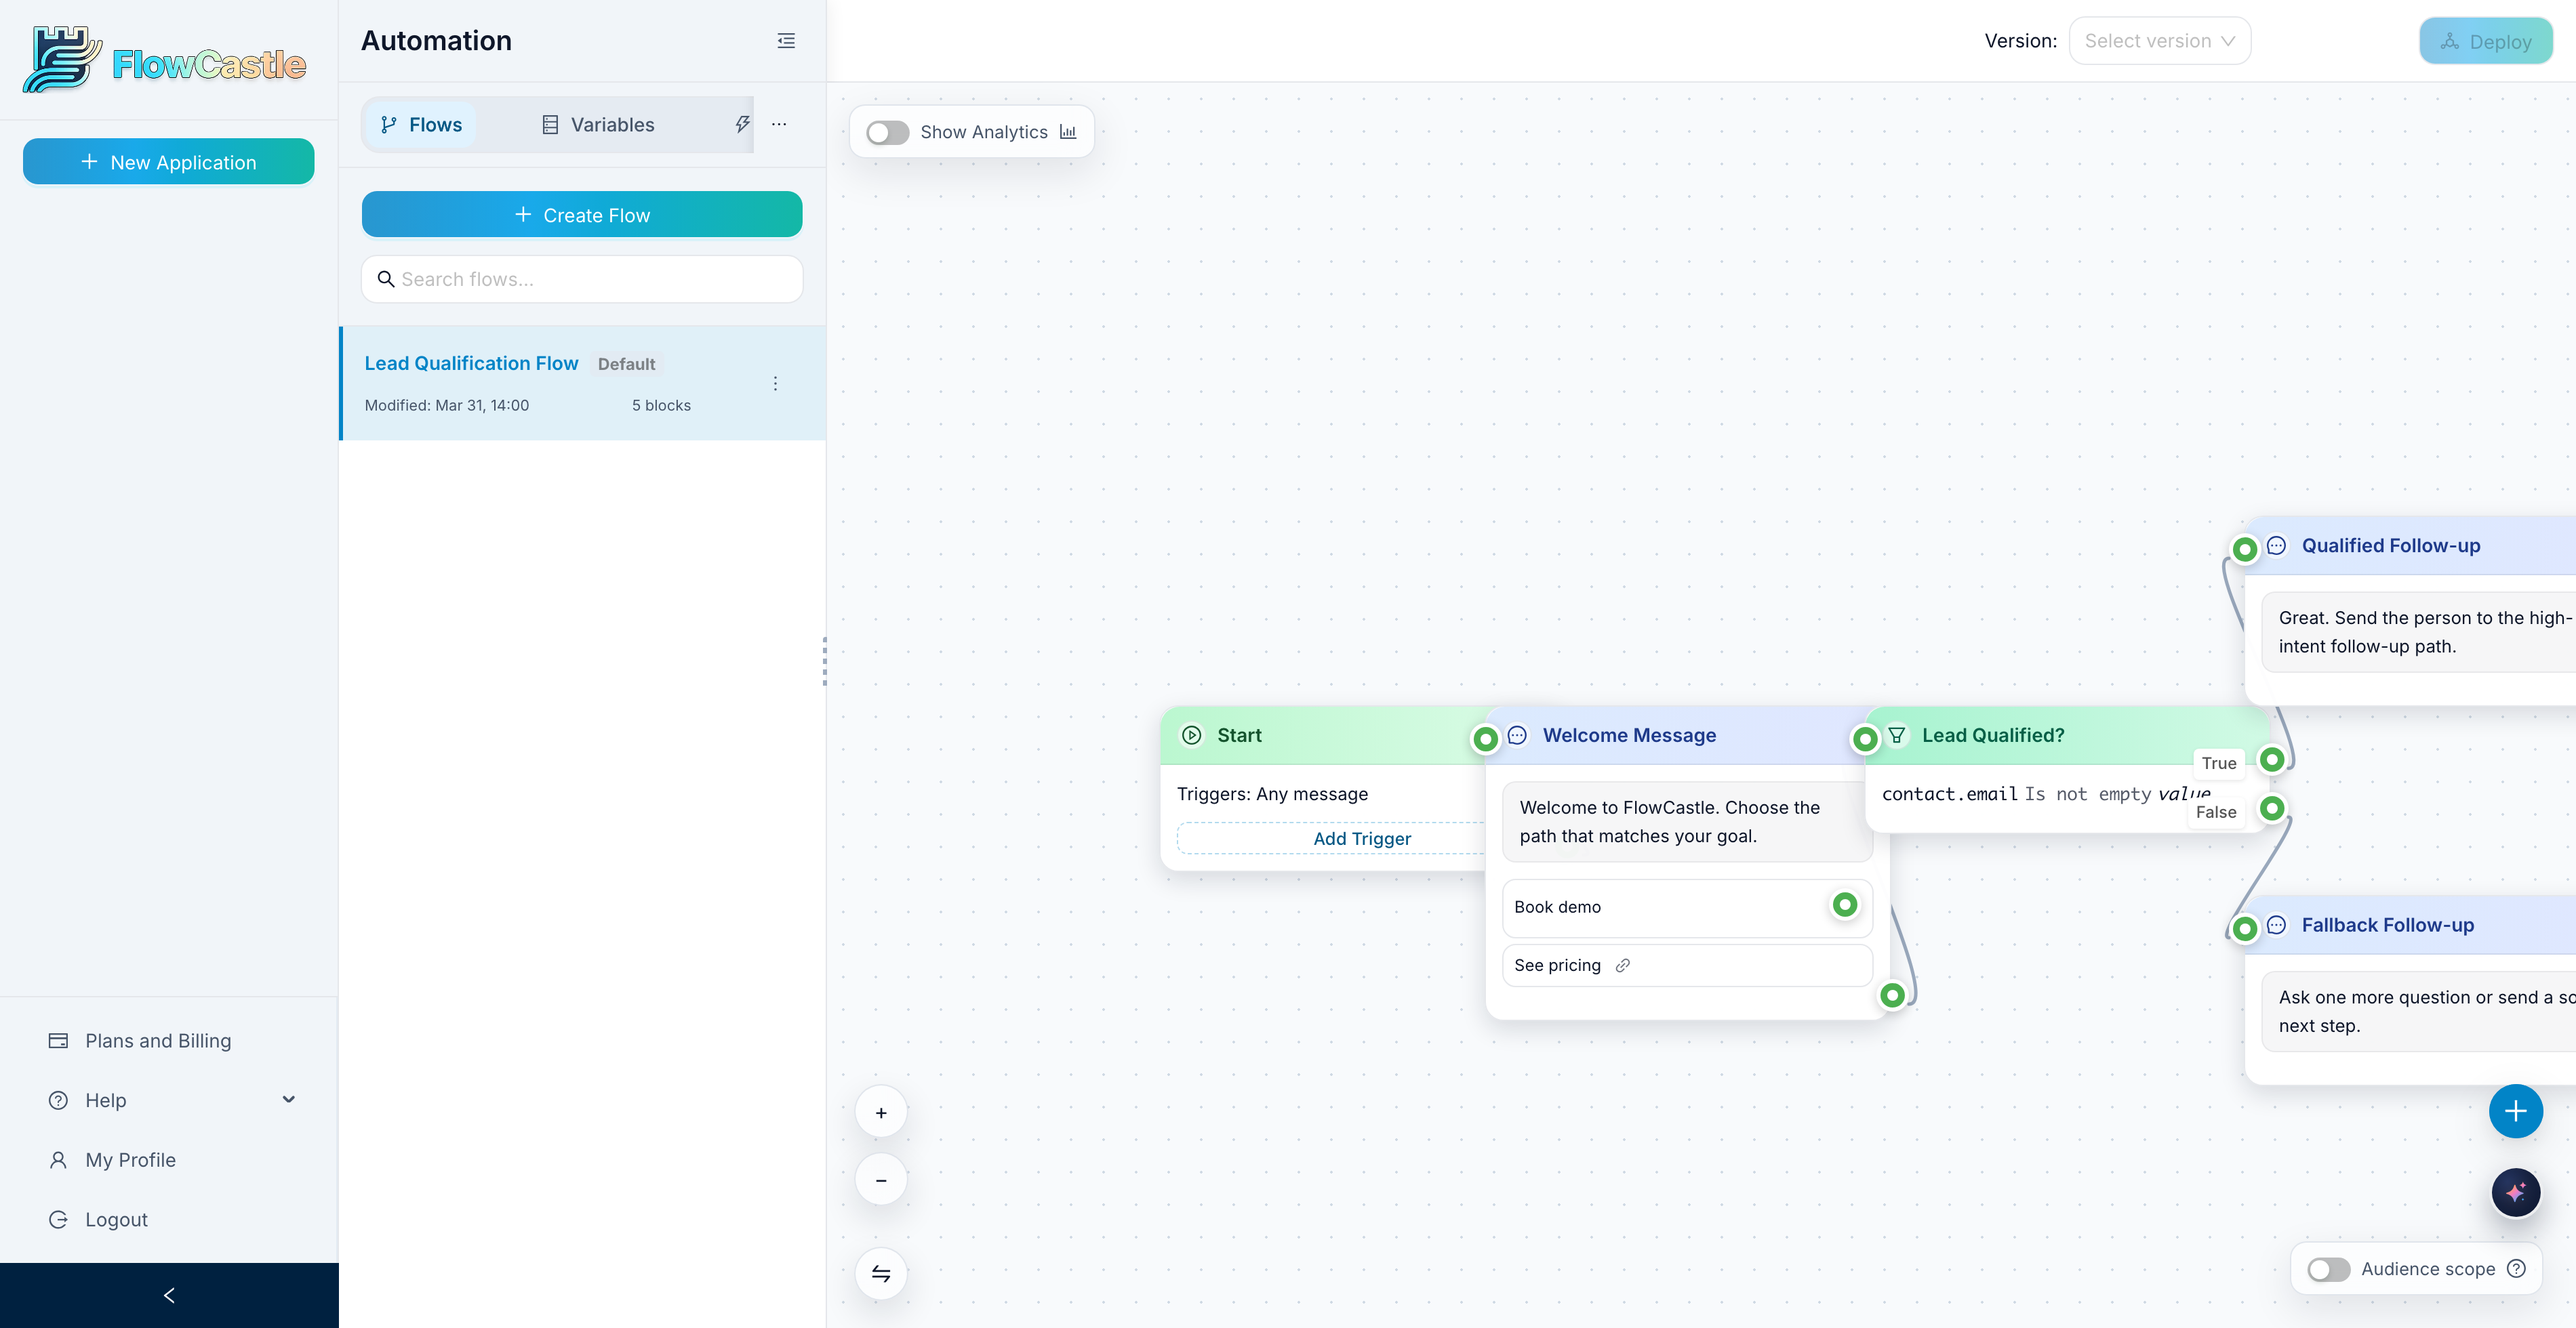
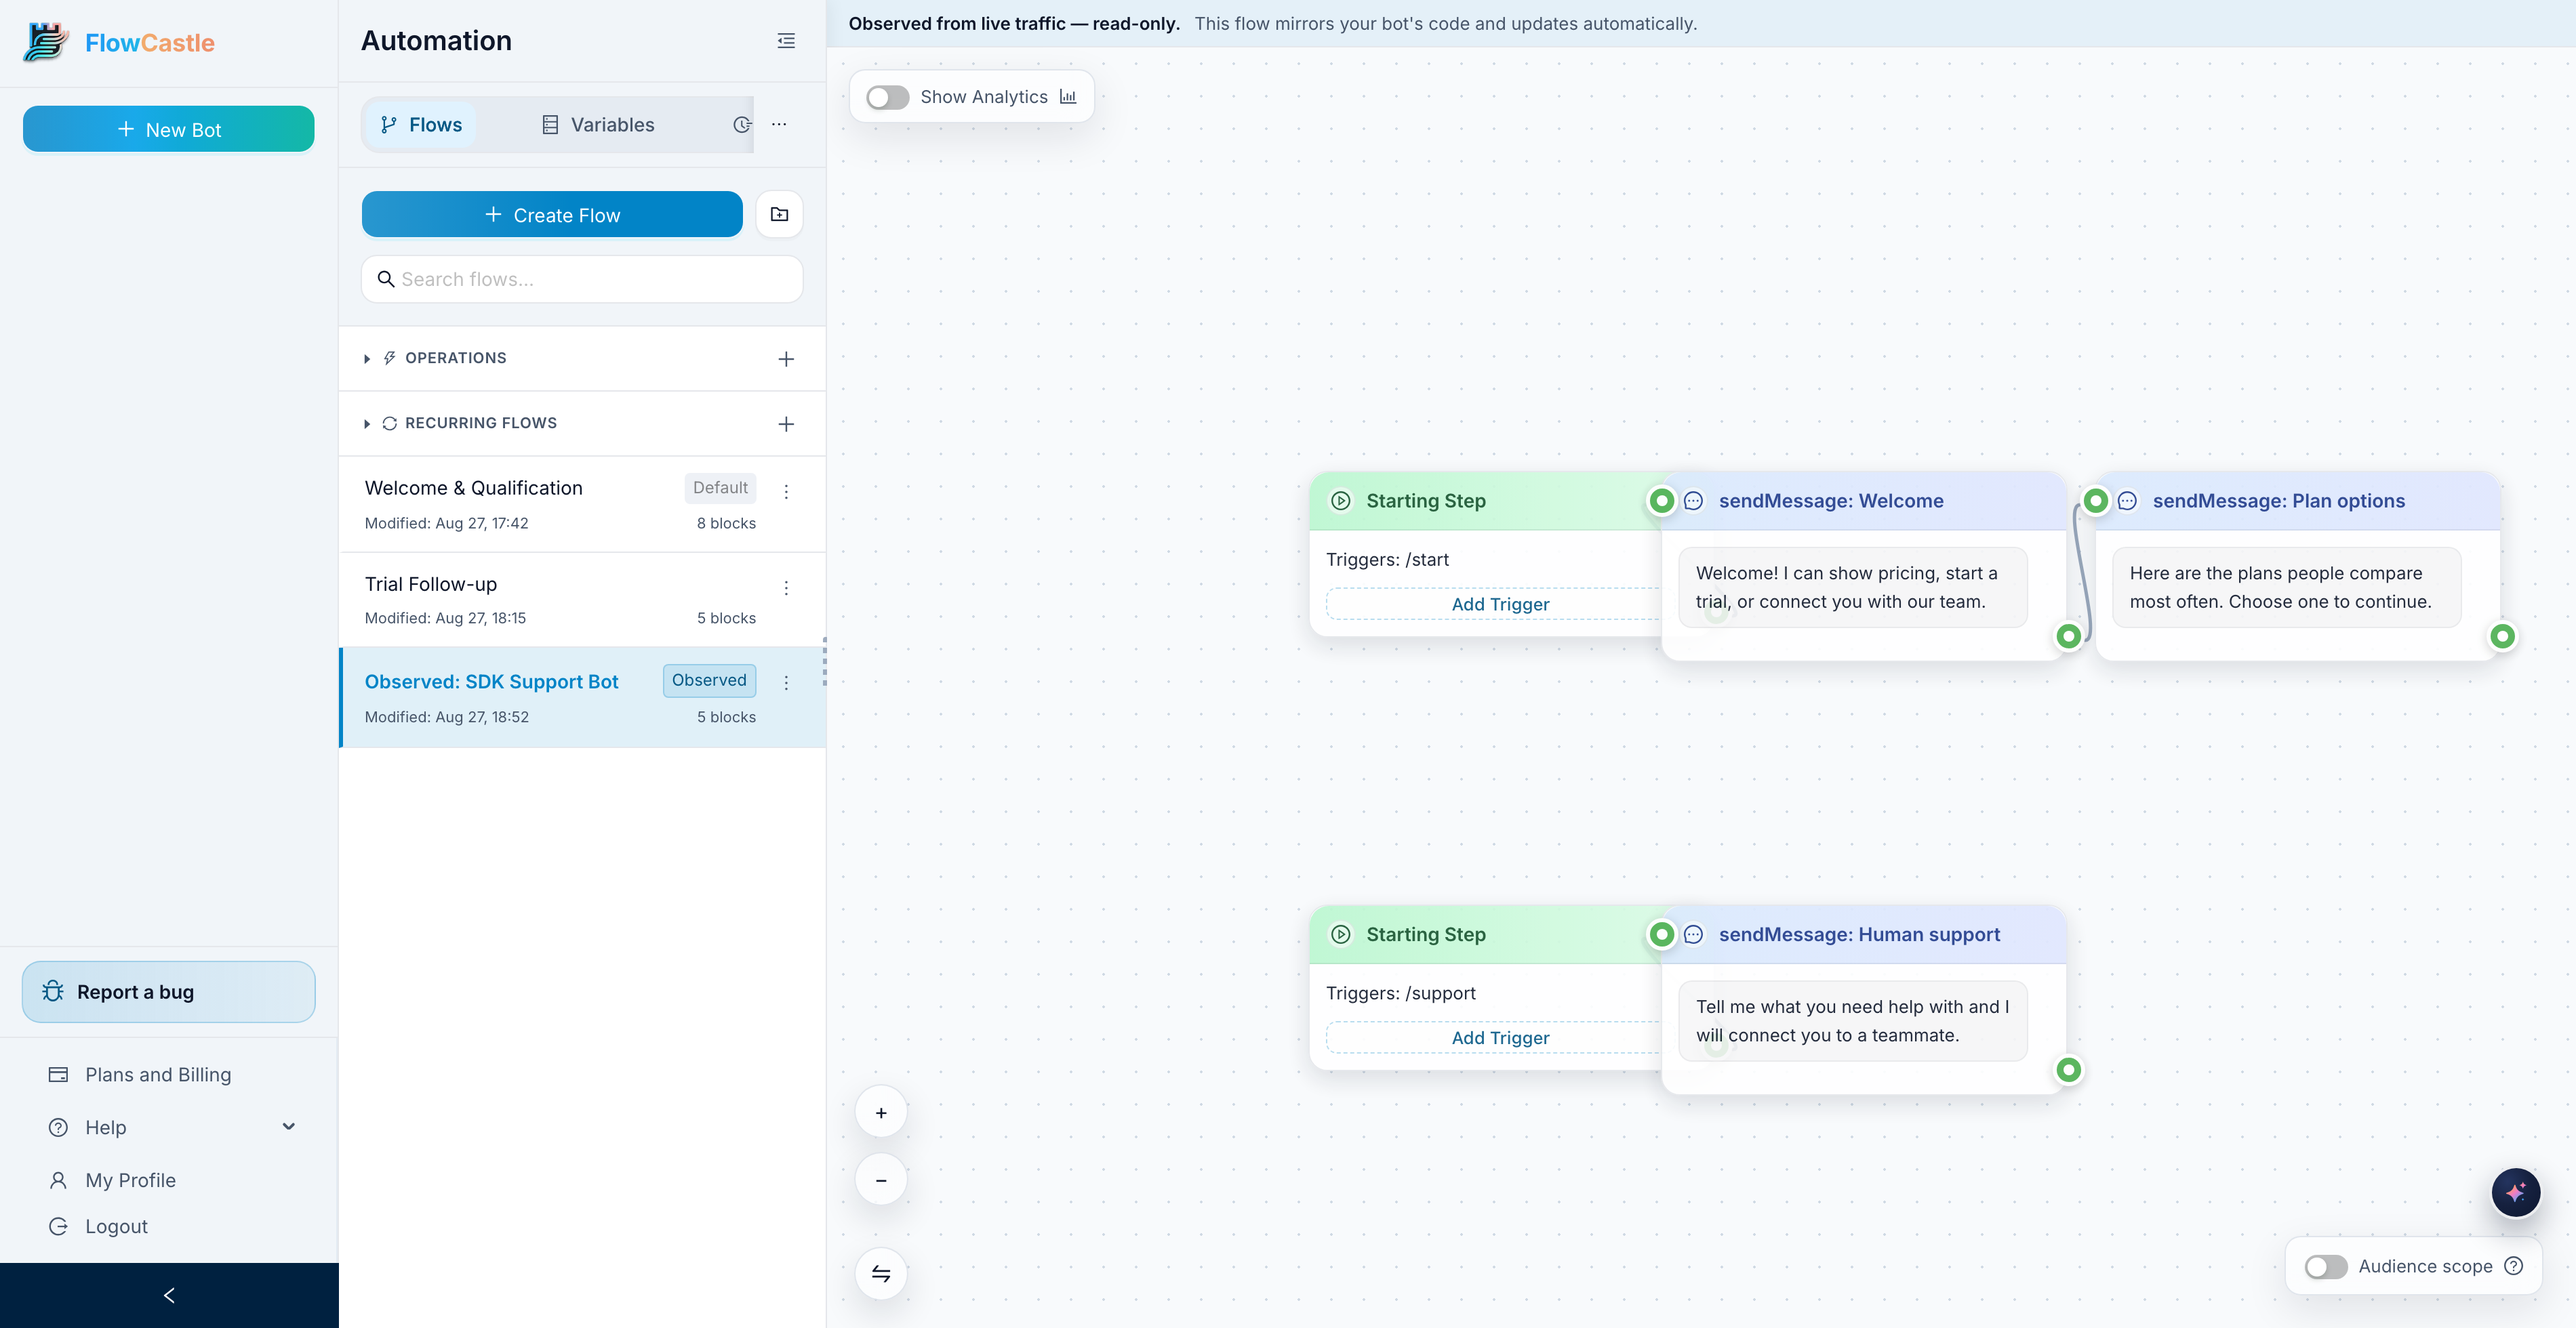
docs: explain code and no-code flows

diff --git a/README.md b/README.md
@@ -59,14 +59,27 @@ code, call a FlowCastle flow for onboarding, return to custom logic, record a
 goal, and later hand the conversation to a human—all through the bot process
 you already operate.
 
-![A lead qualification conversation displayed on the FlowCastle visual canvas](docs/images/flow-canvas.png)
+## Code and no-code, side by side
 
-The SDK observes incoming updates and outgoing Telegram calls. FlowCastle can
-use that activity to reconstruct an **observed, read-only conversation map** on
-the visual canvas. The result gives the whole team a shared view of what the bot
-does, makes legacy flows easier to maintain, and connects each path to real
-analytics. Delete the observed map at any time and let FlowCastle rebuild it
-from fresh activity.
+The same Automation workspace can contain both code-owned behavior and journeys
+created directly in FlowCastle:
+
+| Observed from your code | Built in FlowCastle |
+| --- | --- |
+| Reconstructed automatically from sanitized SDK traffic | Created visually in the no-code editor |
+| Read-only because your repository remains the source of truth | Editable and deployable by the teammates who own the journey |
+| Keeps code paths visible and connects them to analytics | Runs onboarding, campaigns, follow-ups, support, and other complementary automations |
+
+![Editable no-code flows alongside a selected, read-only SDK-observed flow in the FlowCastle Automation workspace](docs/images/flow-canvas.png)
+
+The selected flow above is the observed map: it is clearly labeled, locked, and
+updated from live SDK traffic. The other flows in the same list were built in
+FlowCastle and remain editable. Both can run through one bot process. A deployed
+FlowCastle trigger can claim a matching update, code can explicitly call an
+allowed flow, and everything unmatched continues to your existing handlers.
+
+Delete an observed map at any time and let FlowCastle rebuild it from fresh
+activity. Deleting the map never deletes or changes the code that produced it.
 
 ## Integrate in minutes
 

diff --git a/packages/sdk-python/README.md b/packages/sdk-python/README.md
@@ -37,6 +37,22 @@ await adapter.ready()
 adapter.install(application)
 ```
 
+## Use code and no-code flows together
+
+Keep framework-native commands and custom business logic in the Python bot, and
+build complementary onboarding, campaign, follow-up, or support automations in
+FlowCastle's no-code editor. Both kinds appear in the same Automation workspace:
+
+- **Observed flows** are read-only maps reconstructed from SDK traffic. They
+  make code-owned behavior visible without pretending the canvas is its source
+  of truth.
+- **FlowCastle-authored flows** are editable and deployable from the no-code
+  editor. They can claim matching updates or be started explicitly with
+  `run_flow`.
+
+Unmatched updates continue through aiogram or python-telegram-bot normally, so
+one bot can use both models without a rewrite.
+
 The installed framework middleware/handler starts background event delivery,
 continuous claim and manifest refresh, heartbeat, and leased job delivery as
 soon as it receives the framework Bot instance. If you call `handle_update`

diff --git a/docs/CROSS_FRAMEWORK_TELEGRAM_SDK_PLAN.md b/docs/CROSS_FRAMEWORK_TELEGRAM_SDK_PLAN.md
@@ -24,6 +24,20 @@ interpreter in each SDK. One server runtime keeps parity for conditions,
 templates, AI, delayed work, sequences, broadcasts, and action kinds; adapters
 remain small, auditable transport integrations.
 
+The product supports both ownership models in one Automation workspace:
+
+- **Code-owned observed flows** are automatically reconstructed from sanitized
+  SDK traffic and remain read-only because the customer's repository is their
+  source of truth.
+- **FlowCastle-authored flows** are built, edited, and deployed in the no-code
+  editor. They can claim matching updates or be invoked explicitly by callable
+  key from customer code.
+
+They are complementary, not migration stages. A customer can keep specialized
+logic in its framework handlers, give product and operations teams visual flows
+for journeys they own, and run both through the same bot process. Unmatched
+updates always continue to customer code.
+
 ## 2. Supported targets and delivery status
 
 | Target | Distribution / runtime | Status | Initial responsibility |

diff --git a/packages/sdk-grammy/README.md b/packages/sdk-grammy/README.md
@@ -35,6 +35,21 @@ bot.start();
 That's it. Contacts, message analytics, blocked-user detection, and a live
 "connected" indicator light up in your FlowCastle dashboard.
 
+## Use code and no-code flows together
+
+Keep framework-native commands and custom business logic in this bot, and build
+complementary onboarding, campaign, follow-up, or support automations in
+FlowCastle's no-code editor. Both kinds appear in the same Automation workspace:
+
+- **Observed flows** are read-only maps reconstructed from SDK traffic. They
+  make code-owned behavior visible without pretending the canvas is its source
+  of truth.
+- **FlowCastle-authored flows** are editable and deployable from the no-code
+  editor. They can claim matching updates or be started explicitly from code.
+
+Unmatched updates continue through the normal grammY middleware chain, so one
+bot can use both models without a rewrite.
+
 ### Server-side FlowCastle flows (proxy runtime)
 
 Enable the proxy runtime to let FlowCastle execute authored flows on its server

diff --git a/packages/sdk-telegraf/README.md b/packages/sdk-telegraf/README.md
@@ -43,6 +43,21 @@ before `launch()` when the app sends through `bot.telegram` before its first
 incoming update. Calls sent through a different `Telegram` instance must be
 wrapped explicitly too.
 
+## Use code and no-code flows together
+
+Keep framework-native commands and custom business logic in this bot, and build
+complementary onboarding, campaign, follow-up, or support automations in
+FlowCastle's no-code editor. Both kinds appear in the same Automation workspace:
+
+- **Observed flows** are read-only maps reconstructed from SDK traffic. They
+  make code-owned behavior visible without pretending the canvas is its source
+  of truth.
+- **FlowCastle-authored flows** are editable and deployable from the no-code
+  editor. They can claim matching updates or be started explicitly from code.
+
+Unmatched updates continue through the normal Telegraf middleware chain, so one
+bot can use both models without a rewrite.
+
 ## Privacy
 
 Privacy filtering happens inside the process before data enters an event buffer,
